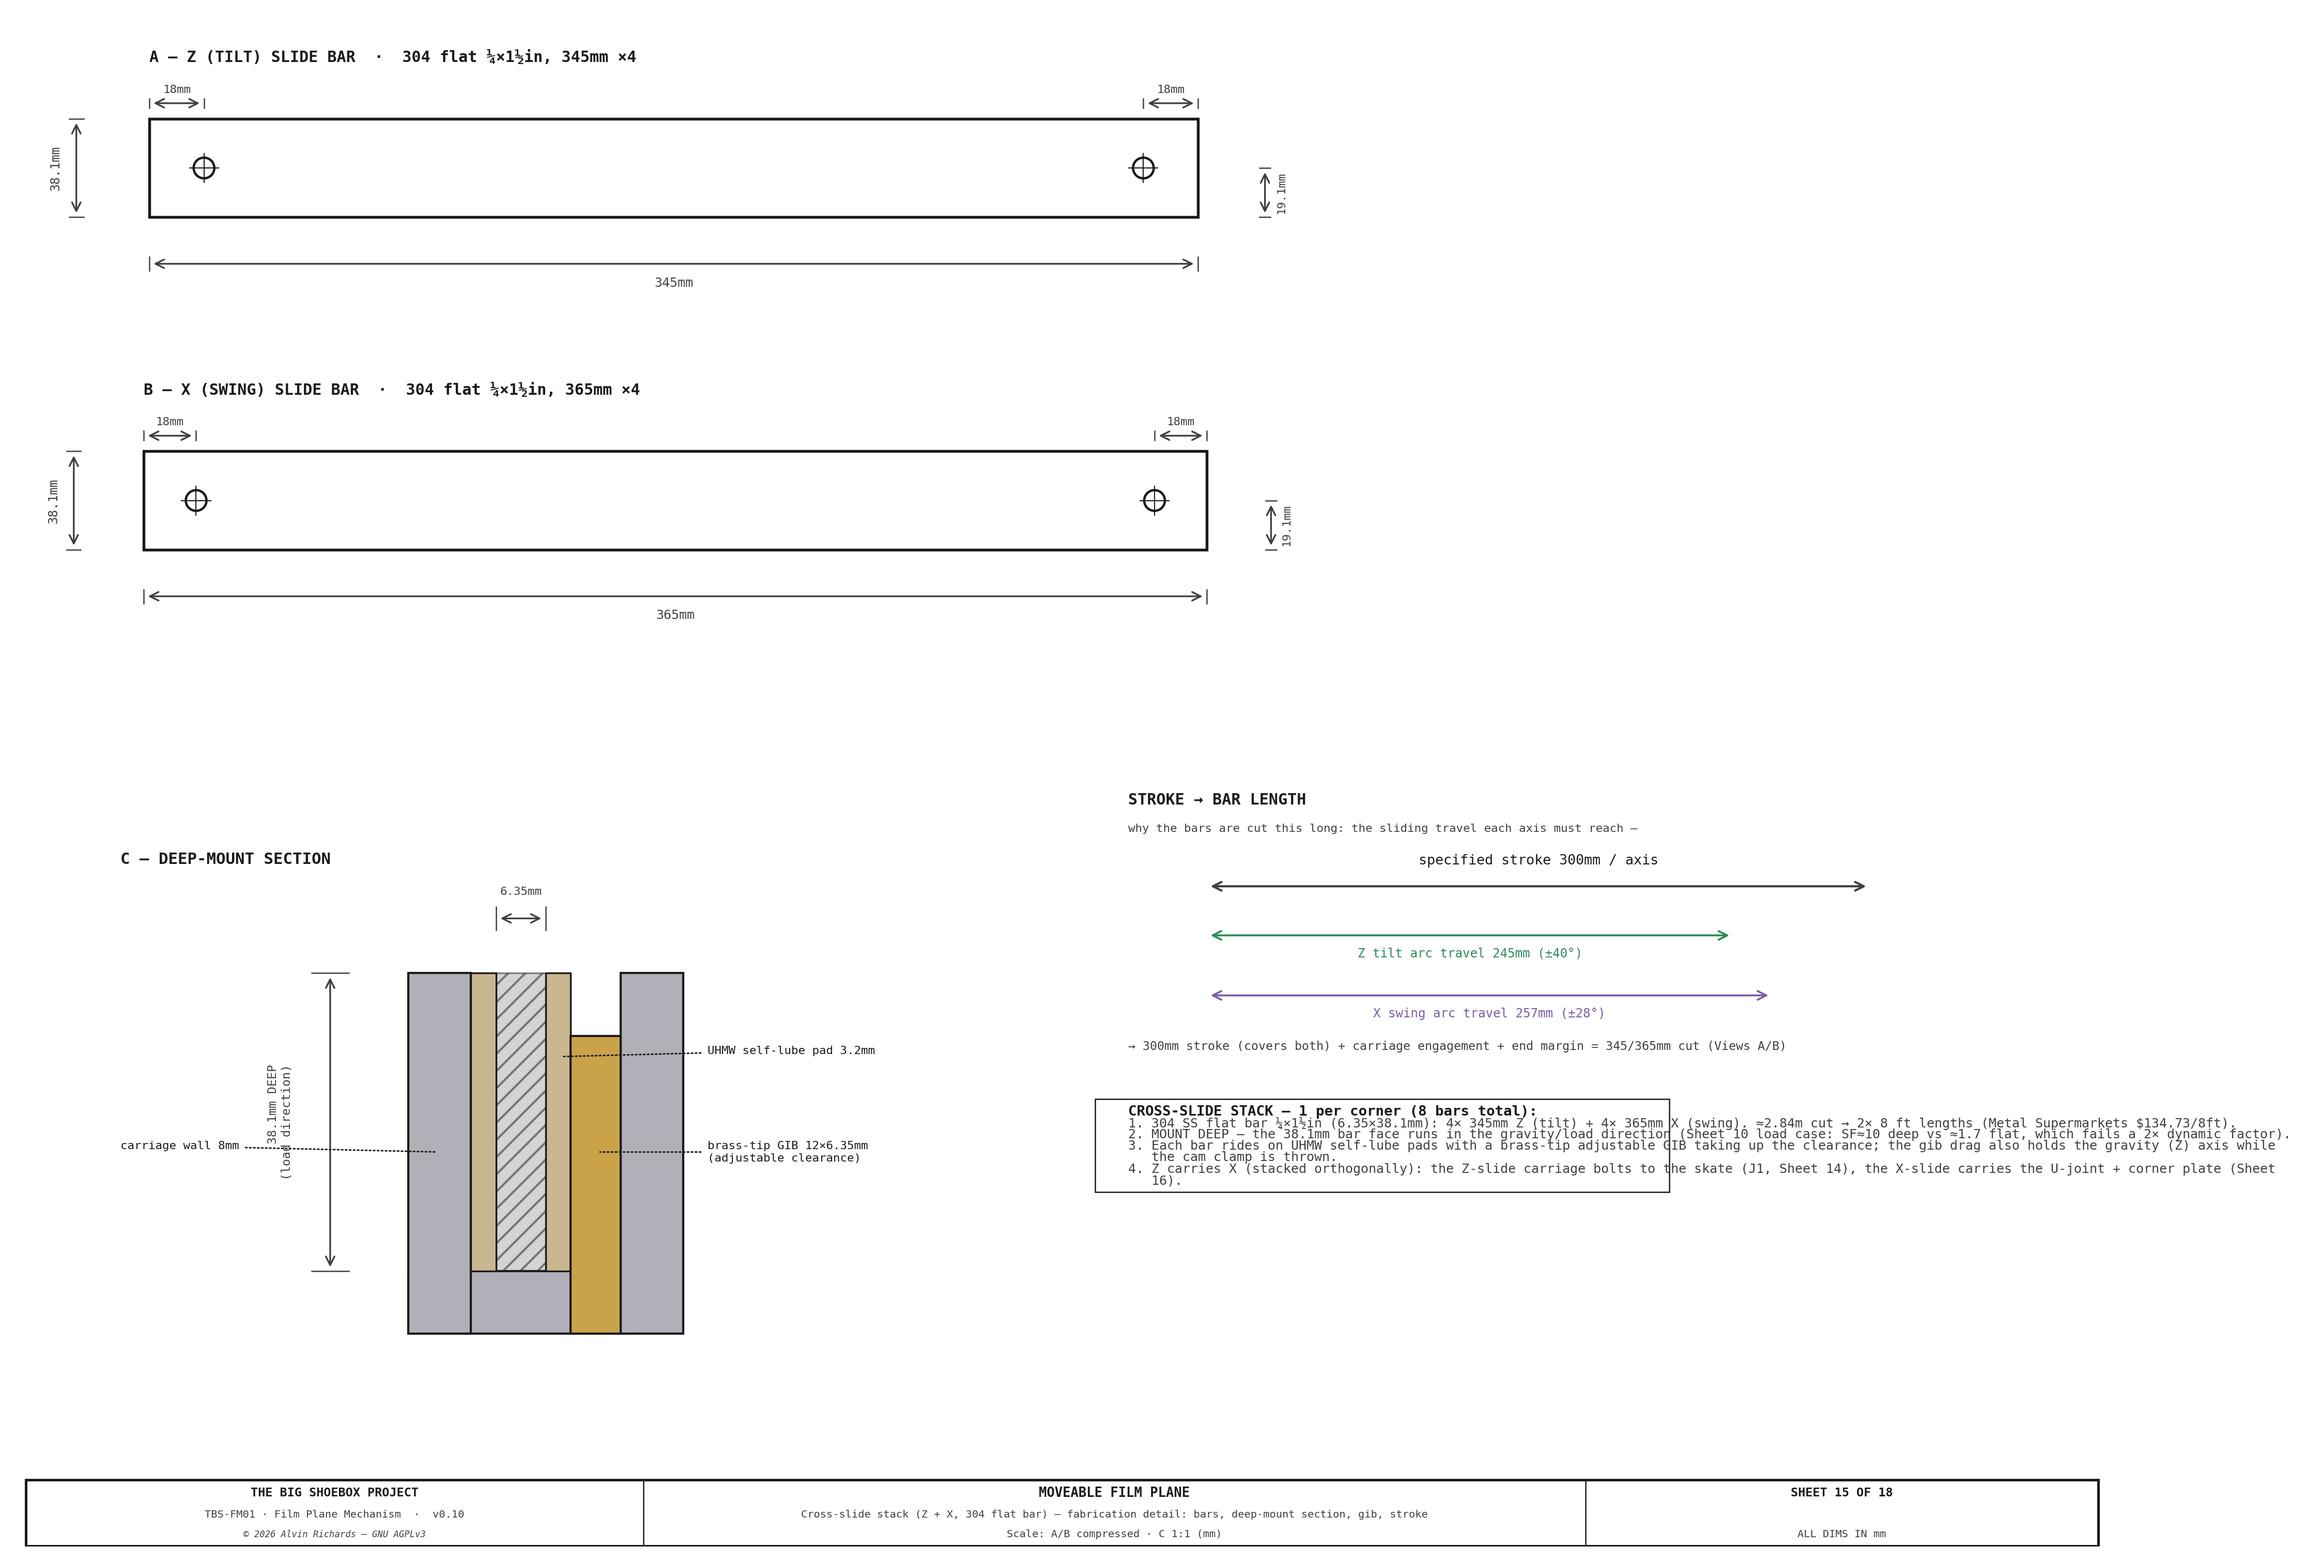
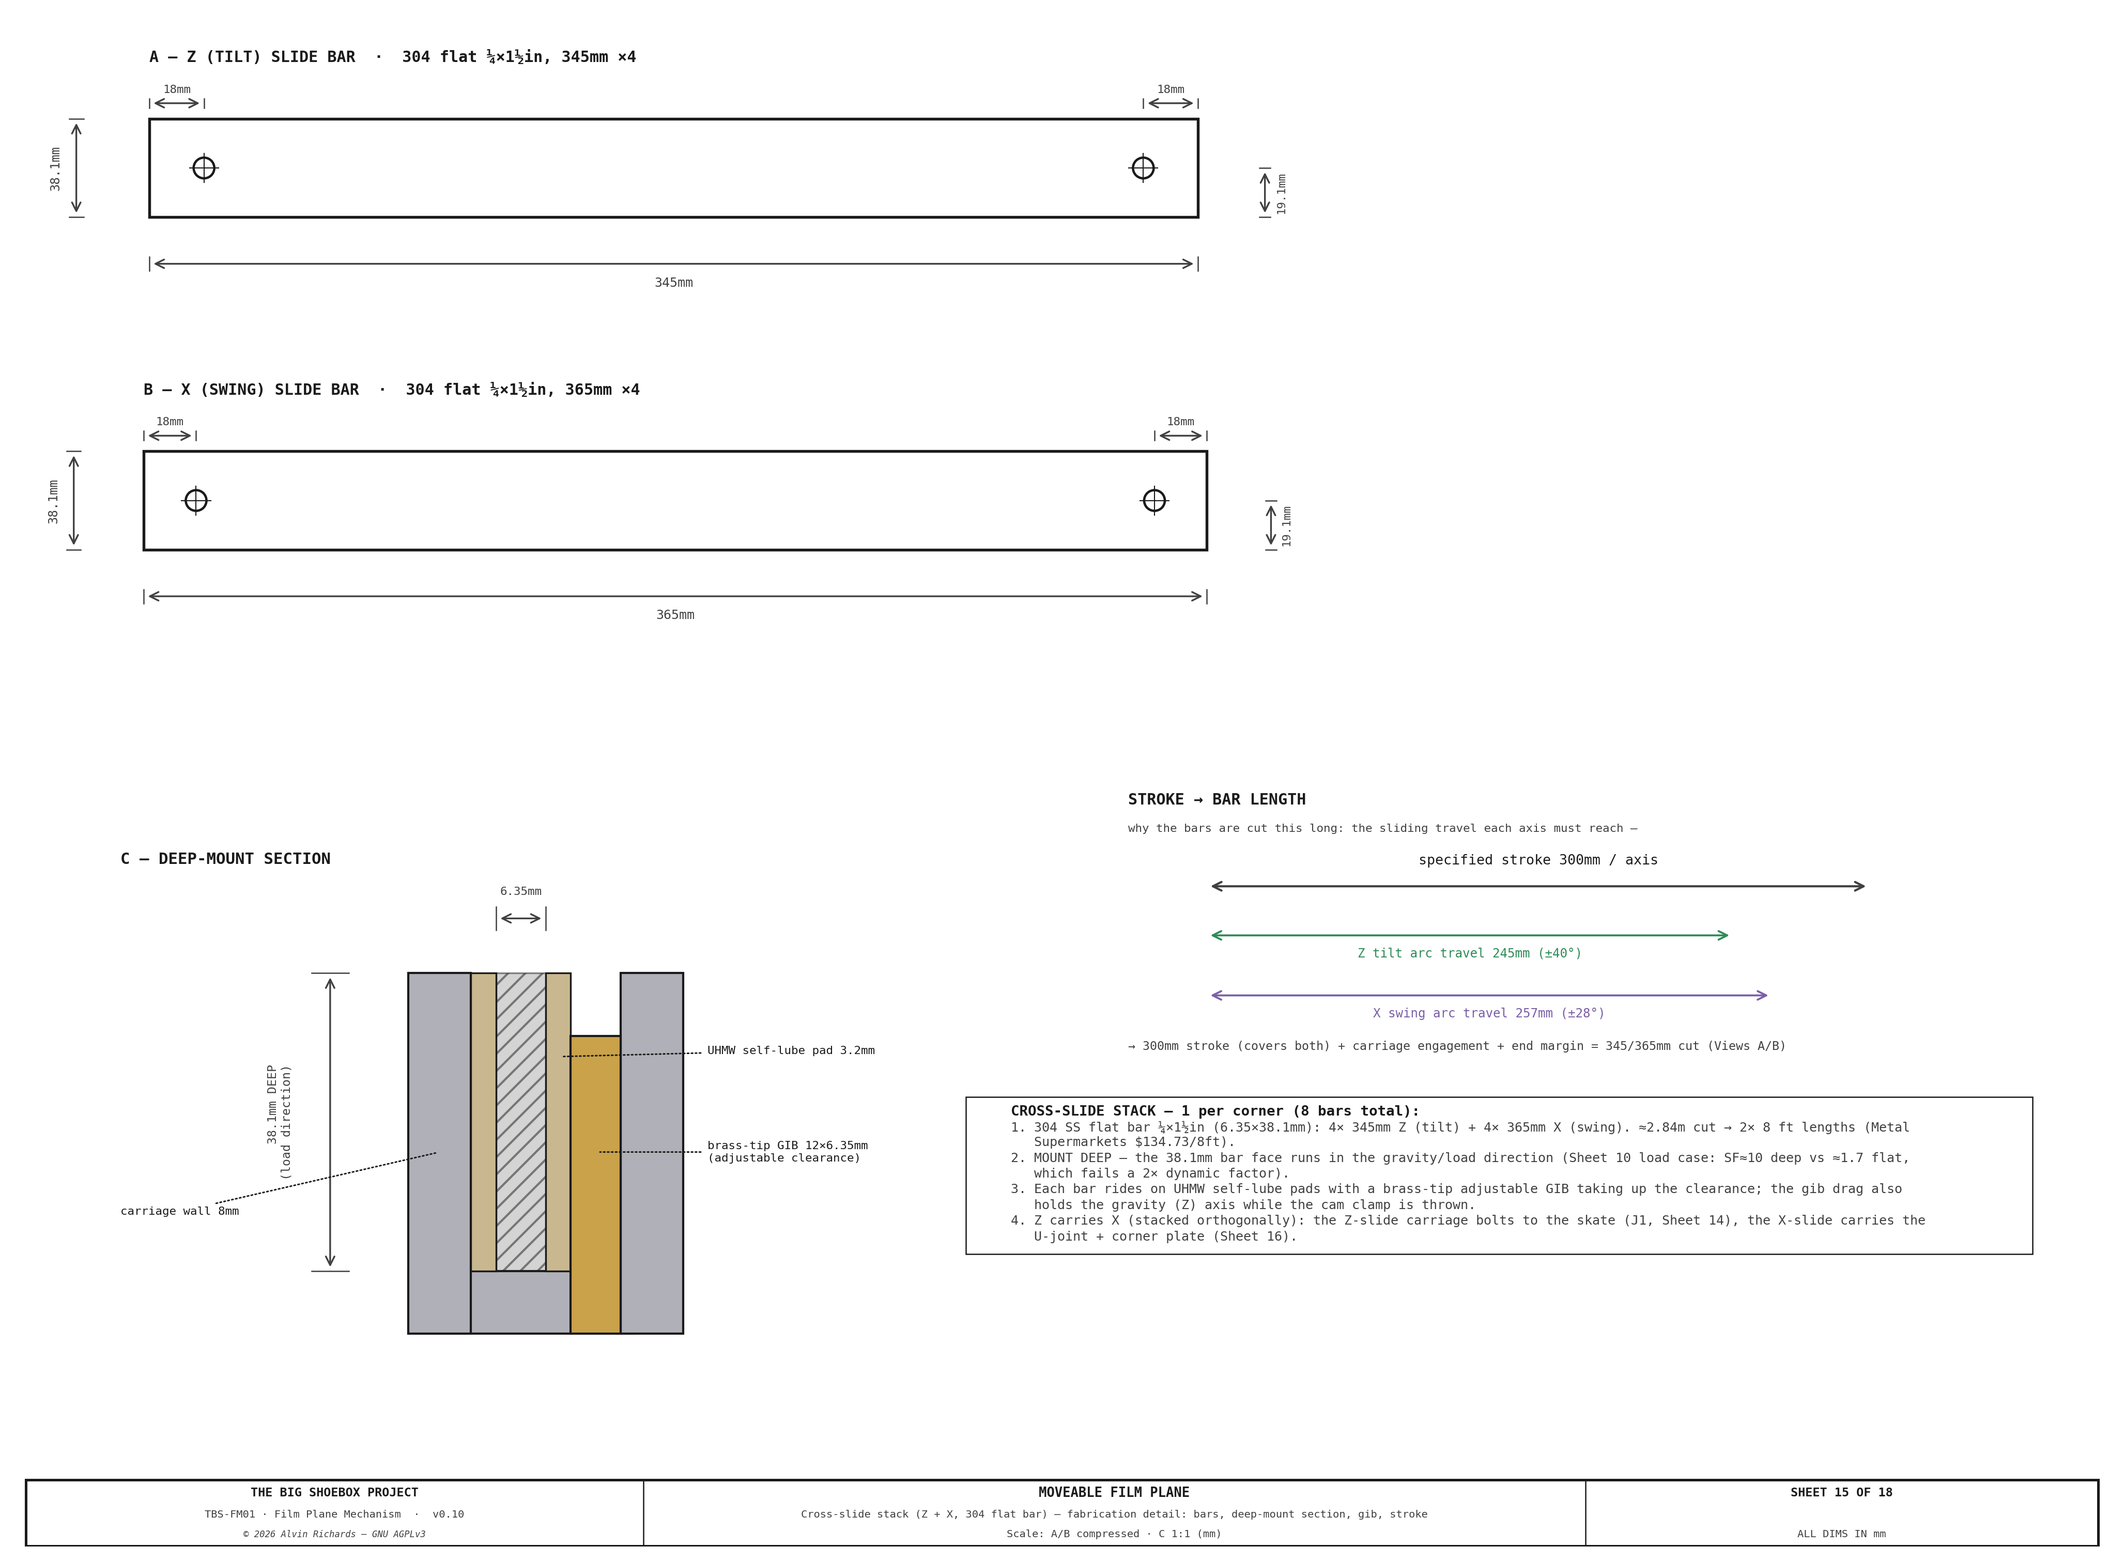
Tidy labels

diff --git a/src/generators/generate_film_plane_mechanism.py b/src/generators/generate_film_plane_mechanism.py
@@ -2566,7 +2566,7 @@ def sheet15():
     draw_dim_h(axC, x0, x0 + bt, bw + 7, f"{bt}mm", fs=5.4, font=FONT, offset=5)
     leader(axC, x0 + bt + pad / 2, bw * 0.72, 27, bw * 0.74, f"UHMW self-lube pad {pad}mm", ha="left", fs=5.4, color=OUT, font=FONT, bbox=LBL_BG)
     leader(axC, x0 + bt + pad + gt / 2, bw * 0.40, 27, bw * 0.40, f"brass-tip GIB {gw}×{gt}mm\n(adjustable clearance)", ha="left", fs=5.4, color=OUT, font=FONT, bbox=LBL_BG)
-    leader(axC, x0 - pad - wall / 2, bw * 0.4, -48, bw * 0.42, f"carriage wall {wall}mm", ha="left", fs=5.4, color=OUT, font=FONT, bbox=LBL_BG)
+    leader(axC, x0 - pad - wall / 2, bw * 0.4, -48, bw * 0.2, f"carriage wall {wall}mm", ha="left", fs=5.4, color=OUT, font=FONT, bbox=LBL_BG)
     axC.text(-48, bw + 14, "C — DEEP-MOUNT SECTION", fontsize=7.4, fontweight="bold", color=OUT, ha="left", **FONT)
 
     # ── stroke callout box ─────────────────────────────────────────────────────
@@ -2594,7 +2594,7 @@ def sheet15():
         "drag also holds the gravity (Z) axis while the cam clamp is thrown.",
         "4. Z carries X (stacked orthogonally): the Z-slide carriage bolts to the skate (J1, Sheet 14), the X-slide "
         "carries the U-joint + corner plate (Sheet 16).",
-    ], 2, 98, 3.4, fs=6.0, title_fs=6.6, color=DIM, width=52, wrap=150, font=FONT)
+    ], -10, 98, 4.6, fs=6.0, title_fs=6.6, color=DIM, width=100, wrap=120, font=FONT)
 
     ax_tb = fig.add_axes([0.06, 0.012, 0.90, 0.052]); ax_tb.set_xlim(0, 1); ax_tb.set_ylim(0, 1); ax_tb.axis("off")
     title_block(ax_tb, "SHEET 15 OF 18", drawing_title="MOVEABLE FILM PLANE",
